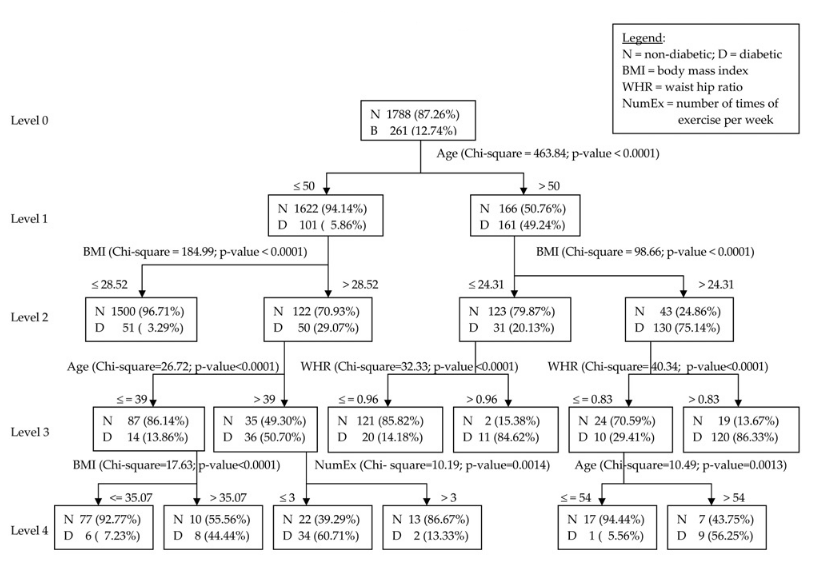
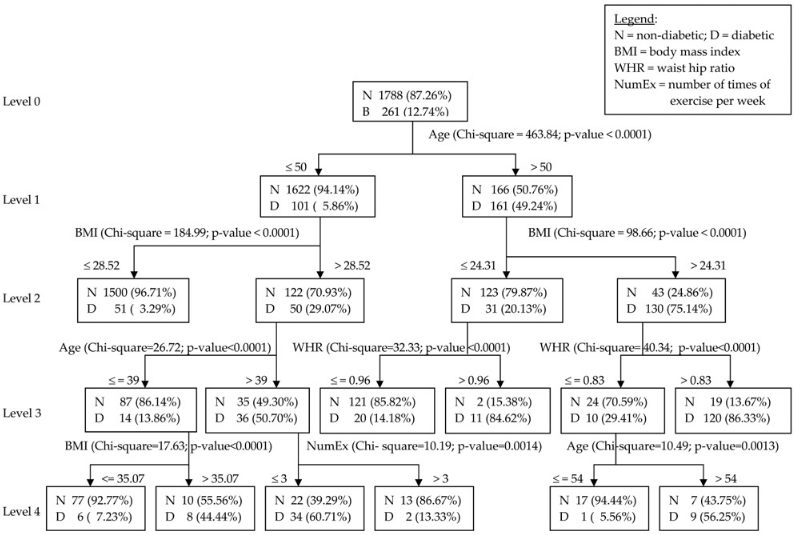
added giignore. improved images.

diff --git a/Poster.tex b/Poster.tex
@@ -1,4 +1,4 @@
-\documentclass[12pt,a2paper,landscape]{tikzposter}
+\documentclass[12pt,a2paper,landscape,innermargin=20mm]{tikzposter}
 
 \useblockstyle{Envelope}
 \usebackgroundstyle{VerticalGradation}
@@ -13,7 +13,7 @@
 \usepackage{layout}
 
 \author{David Pérez, Ander Raso}
-\title{Aplicaciones de la MD en Medicina}
+\title{\textbf{Aplicaciones de la Minería de Datos en Medicina}}
 \date{}
 
 \begin{document}
@@ -24,6 +24,8 @@
 
 \column{0.5}
 \block{ENUNCIADO}{
+%Introducción
+%Enunciado del problema a resolver
 Lorem ipsum dolor sit amet, consectetuer adipiscing elit. Etiam lobortis facilisis sem. Nullam nec mi et neque pharetra
 sollicitudin. Praesent imperdiet mi nec ante. Donec ullamcorper, felis non sodales commodo, lectus velit ultrices augue,
 a dignissim nibh lectus placerat pede. Vivamus nunc nunc, molestie ut, ultricies vel, semper in, velit. Ut porttitor.
@@ -32,6 +34,9 @@ Praesent in sapien. Lorem ipsum dolor sit amet, consectetuer adipiscing elit.
 
 \column{0.25}
 \block{INSTANCIAS}{
+%Origen de los datos
+%¿Cómo vienen caracterizadas las instancias? ¿A través de cuántas características o atributos se describen las instancias?
+%¿Cuál es la variable "clase" que se quiere determinar?
 Lorem ipsum dolor sit amet, consectetuer adipiscing elit. Etiam lobortis facilisis sem. Nullam nec mi et neque pharetra
 sollicitudin. Praesent imperdiet mi nec ante. Donec ullamcorper, felis non sodales commodo, lectus velit ultrices augue,
 a dignissim nibh lectus placerat pede. Vivamus nunc nunc, molestie ut, ultricies vel, semper in, velit. Ut porttitor.
@@ -39,7 +44,10 @@ Praesent in sapien. Lorem ipsum dolor sit amet, consectetuer adipiscing elit.
 }
 
 \column{0.25}
-\block{VAR. PREDICTORAS}{
+\block{RESULTADOS}{
+%Resultados del experimento
+%Observaciones
+%Variables predictoras
 Lorem ipsum dolor sit amet, consectetuer adipiscing elit. Etiam lobortis facilisis sem. Nullam nec mi et neque pharetra
 sollicitudin. Praesent imperdiet mi nec ante. Donec ullamcorper, felis non sodales commodo, lectus velit ultrices augue,
 a dignissim nibh lectus placerat pede. Vivamus nunc nunc, molestie ut, ultricies vel, semper in, velit. Ut porttitor.
@@ -50,24 +58,28 @@ Praesent in sapien. Lorem ipsum dolor sit amet, consectetuer adipiscing elit.
 
 \begin{columns}
 
-\column{0.333}
+\column{0.4}
 \block{IMG1}{
 \begin{center}
-\includegraphics[scale=0.55]{fig/arbol_decision.png}
+\includegraphics[scale=0.7]{fig/arbol_decision.png}
+\linebreak
 Figure 1: árbol de decisión\cite{A_DMAHC}
 \end{center}
 }
 
-\column{0.333}
+\column{0.4}
 \block{IMG2}{
 \begin{center}
-\includegraphics[scale=0.6]{fig/tabla_clasifiacion.png}
+\includegraphics[scale=0.8]{fig/tabla_clasifiacion.png}
+\linebreak
 Figure 2: tabla de clasificación\cite{A_DMAHC}
 \end{center}
 }
 
-\column{0.333}
+\column{0.2}
 \block{CONCLUSIONES}{
+%¿Qué interés tiene en este problema utilizar minería de datos? (¿no hay expertos?, ¿hay demasiados datos?)
+%Posibilidad de automatización gracias a abundancia de datos.
 Lorem ipsum dolor sit amet, consectetuer adipiscing elit. Etiam lobortis facilisis sem. Nullam nec mi et neque pharetra
 sollicitudin. Praesent imperdiet mi nec ante. Donec ullamcorper, felis non sodales commodo, lectus velit ultrices augue,
 a dignissim nibh lectus placerat pede. Vivamus nunc nunc, molestie ut, ultricies vel, semper in, velit. Ut porttitor.
